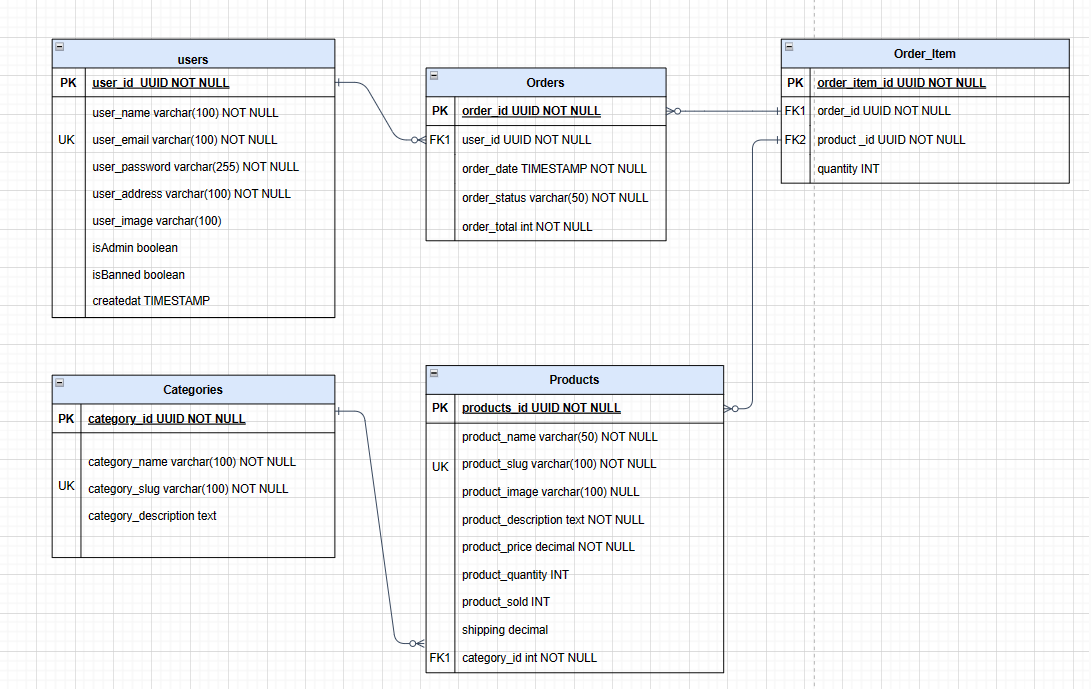
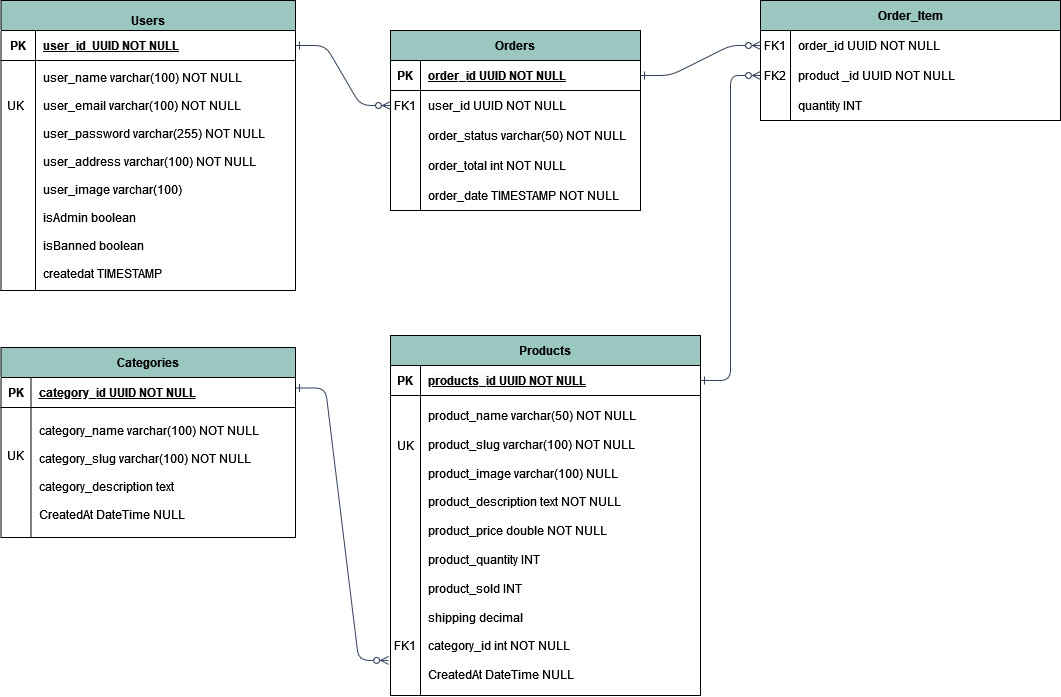
finalizing the Database

diff --git a/src/Services/CategoryService.cs b/src/Services/CategoryService.cs
@@ -11,33 +11,33 @@ namespace api.Services
         {
             _appDbContext = appDbContext;
         }
-    public async Task<IEnumerable<Category>> GetAllCategoryService()
-    {
-        return await _appDbContext.Categories.ToListAsync();
-    }
-    public async Task<Category?> GetCategoryById(Guid categoryId)
-    {
-        return await _appDbContext.Categories.Include(c => c.Products).FirstOrDefaultAsync(category => category.CategoryId == categoryId);
-    }
-    public async Task<Category> CreateCategoryService(Category newCategory)
-    {
-        
-        newCategory.CategoryId = Guid.NewGuid();
-        newCategory.Slug = Slug.GenerateSlug(newCategory.Name);
-        newCategory.CreatedAt = DateTime.UtcNow;
-        _appDbContext.Categories.Add(newCategory); 
-        await _appDbContext.SaveChangesAsync();
-        return newCategory;
-    }
-    public async Task<Category?> UpdateCategoryService(Guid categoryId, Category updateCategory)
-    {
-        var existingCategory = _appDbContext.Categories.FirstOrDefault(c => c.CategoryId == categoryId);
-        if (existingCategory != null)
+        public async Task<IEnumerable<Category>> GetAllCategoryService()
+        {
+            return await _appDbContext.Categories.ToListAsync();
+        }
+        public async Task<Category?> GetCategoryById(Guid categoryId)
+        {
+            return await _appDbContext.Categories.FirstOrDefaultAsync(category => category.CategoryId == categoryId);
+        }
+        public async Task<Category> CreateCategoryService(Category newCategory)
+        {
+
+            newCategory.CategoryId = Guid.NewGuid();
+            newCategory.Slug = Slug.GenerateSlug(newCategory.Name);
+            newCategory.CreatedAt = DateTime.UtcNow;
+            _appDbContext.Categories.Add(newCategory);
+            await _appDbContext.SaveChangesAsync();
+            return newCategory;
+        }
+        public async Task<Category?> UpdateCategoryService(Guid categoryId, Category updateCategory)
+        {
+            var existingCategory = _appDbContext.Categories.FirstOrDefault(c => c.CategoryId == categoryId);
+            if (existingCategory != null)
             {
                 existingCategory.Name = updateCategory.Name;
                 existingCategory.Slug = Slug.GenerateSlug(existingCategory.Name);
                 existingCategory.Description = updateCategory.Description;
-                
+
             }
             await _appDbContext.SaveChangesAsync();
             return existingCategory;

diff --git a/src/Services/ProductService.cs b/src/Services/ProductService.cs
@@ -39,36 +39,6 @@ namespace api.Services
             };
         }
 
-        // public async Task <PaginationDto<ProductModel>> GetProducts(int pageNumber, int pageSize)
-
-        // {
-        //     var totalProductCount = await _appDbContext.Products.CountAsync();
-
-
-        //     var products = await _appDbContext.Products.Select(p => new ProductModel
-        //     {
-        //         ProductId = p.ProductId,
-        //         Name = p.Name,
-        //         Slug = p.Slug,
-        //         ImageUrl = p.ImageUrl,
-        //         Description = p.Description,
-        //         Sold = p.Sold,
-        //         Price = p.Price,
-        //         Quantity = p.Quantity,
-        //         Shipping = p.Shipping,
-        //     })
-        //     .Skip((pageNumber - 1) * pageSize)
-        //     .Take(pageSize)
-        //     .ToListAsync();
-        //     return new PaginationDto<ProductModel>
-        //     {
-        //         Items = products,
-        //         TotalCount = totalProductCount,
-        //         PageNumber = pageNumber,
-        //         PageSize = pageSize
-        //     };
-        // }
-
         public async Task<Product?> GetProductById(Guid productId)
         {
             return await _appDbContext.Products.FirstOrDefaultAsync(p => p.ProductId == productId);
@@ -83,20 +53,8 @@ namespace api.Services
             await _appDbContext.SaveChangesAsync();
             return newProduct;
         }
-        // public async Task AddProductOrder(Guid ProductId, Guid OrderId)
-        // {
-        //     var orderItem = new OrderItem
-        //     {
-        //         OrderId = OrderId,
-        //         ProductId = ProductId
-        //     };
-
-        //     await _appDbContext.OrderItems.AddAsync(orderItem);
-        //     await _appDbContext.SaveChangesAsync();
-        // }
         public async Task<Product?> UpdateProductService(Guid productId, Product updateProduct)
         {
-            //     //create record 
             var productUpdated = await _appDbContext.Products.FirstOrDefaultAsync(p =>
             p.ProductId == productId);
             {

diff --git a/src/EntityFramework/Product.cs b/src/EntityFramework/Product.cs
@@ -4,22 +4,23 @@ using System.ComponentModel.DataAnnotations.Schema;
 namespace api.EntityFramework
 {
      [Table("Products")]
-     public class Product{
+     public class Product
+     {
 
-    public Guid ProductId { get; set;}
-    public  string Name { get; set;}
-    public string Slug { get; set;} = string.Empty;
-    public string ImageUrl { get; set;}=string.Empty;
-    public string Description { get; set;}=string.Empty;
-    public required double Price { get; set;}
-    public  int Quantity { get; set;}
-    public  int Sold{ get; set;}
-    public double Shipping { get; set;}
-    public Guid CategoryId{ get; set;}//forin  key
+          public Guid ProductId { get; set; }
+          public string Name { get; set; }
+          public string Slug { get; set; } = string.Empty;
+          public string ImageUrl { get; set; } = string.Empty;
+          public string Description { get; set; } = string.Empty;
+          public required double Price { get; set; }
+          public int Quantity { get; set; }
+          public int Sold { get; set; }
+          public double Shipping { get; set; }
+          public Guid CategoryId { get; set; }//forin  key
+          public DateTime CreatedAt { get; set; } = DateTime.UtcNow;
 
-    public DateTime CreatedAt {get; set;}
-
-    //Relationships
-    public Category? Category { get; set;}
-    public List<OrderItem>? OrderItems { get; set; } // for M-M with order
-    }}
+          //Relationships
+          public Category? Category { get; set; }
+          public List<OrderItem>? OrderItems { get; set; } // for M-M with order
+     }
+}

diff --git a/src/Controllers/UserController.cs b/src/Controllers/UserController.cs
@@ -98,16 +98,16 @@ namespace api.Controllers
         [HttpPost("login")]
         public async Task<IActionResult> Login([FromBody] LoginDto loginDto)
         {
-                if (!ModelState.IsValid)
-                {
-                    return ApiResponse.BadRequest("Invalid User Data");
-                }
-                var loggedInUser = await _userService.LoginUserAsync(loginDto);
+            if (!ModelState.IsValid)
+            {
+                return ApiResponse.BadRequest("Invalid User Data");
+            }
+            var loggedInUser = await _userService.LoginUserAsync(loginDto);
 
-                var token = _authService.GenerateJwt(loggedInUser);
+            var token = _authService.GenerateJwt(loggedInUser);
 
 
-                return ApiResponse.Success(new { token, loggedInUser }, "User Logged In successfully");
+            return ApiResponse.Success(new { token, loggedInUser }, "User Logged In successfully");
         }
 
         [HttpPut("{userId}")]

diff --git a/src/Models/UserModel.cs b/src/Models/UserModel.cs
@@ -16,16 +16,14 @@ namespace api.Models
         public required string Name { get; set; }
         [EmailAddress(ErrorMessage = "User email is not valid email")]
         public required string Email { get; set; }
-        
+
         [MinLength(6, ErrorMessage = "User Password must be at least 6 characters.")]
         [Required(ErrorMessage = "User Password is required")]
         [RegularExpression(@"^((?=.*[a-z])(?=.*[A-Z])(?=.*\d)).+$")]
         public required string Password { get; set; }
         public string Address { get; set; } = string.Empty;
         public string Image { get; set; } = string.Empty;
-        // public bool IsAdmin { get; set; } = false;
-        // public bool IsBanned { get; set; } = false;
         public DateTime CreatedAt { get; set; } = DateTime.UtcNow;
-        public List<OrderModel> Orders { get; set; }
+        public List<OrderModel>? Orders { get; set; }
     }
 }

diff --git a/src/Controllers/ProductController.cs b/src/Controllers/ProductController.cs
@@ -52,7 +52,7 @@ namespace api.Controllers
             }
         }
         [HttpPost]
-        // [Authorize(Roles = "Admin")]
+        [Authorize(Roles = "Admin")]
         public async Task<IActionResult> CreateProduct(Product newProduct)
         {
             try
@@ -80,7 +80,7 @@ namespace api.Controllers
         }
 
         [HttpPut("{productId}")]
-        // [Authorize(Roles = "Admin")]
+        [Authorize(Roles = "Admin")]
         public async Task<IActionResult> UpdateProductService(Guid productId, Product updateProduct)
         {
             try
@@ -103,7 +103,7 @@ namespace api.Controllers
             }
         }
         [HttpDelete("{productId}")]
-        // [Authorize(Roles = "Admin")]
+        [Authorize(Roles = "Admin")]
         public async Task<IActionResult> DeleteProduct(Guid productId)
         {
             try

diff --git a/src/Services/UserService.cs b/src/Services/UserService.cs
@@ -35,7 +35,6 @@ namespace api.Services
             var user = await _appDbContext.Users.FindAsync(userId);
             var userDto = _mapper.Map<UserDto>(user);
             return userDto;
-            // return await _appDbContext.Users.FirstOrDefaultAsync(user => user.UserId == userId);
         }
 
         public async Task<User?> CreateUserService(UserModel newUser)
@@ -49,9 +48,6 @@ namespace api.Services
                 Address = newUser.Address,
                 Image = newUser.Image
             };
-            // newUser.UserId = Guid.NewGuid();
-            // newUser.Password = _passwordHasher.HashPassword(null, newUser.Password);
-            // newUser.CreatedAt = DateTime.UtcNow;
             _appDbContext.Users.Add(createUser);
             await _appDbContext.SaveChangesAsync();
             return createUser;

diff --git a/src/Controllers/CategoryController.cs b/src/Controllers/CategoryController.cs
@@ -76,7 +76,7 @@ namespace api.Controllers
         }
 
         [HttpPost]
-        // [Authorize(Roles = "Admin")]
+        [Authorize(Roles = "Admin")]
         public async Task<IActionResult> CreateCategory(Category newCategory)
         {
             try
@@ -104,7 +104,7 @@ namespace api.Controllers
 
 
         [HttpPut("{categoryId}")]
-        // [Authorize(Roles = "Admin")]
+        [Authorize(Roles = "Admin")]
         public async Task<IActionResult> UpdateCategory(Guid categoryId, Category updateCategory)
         {
             try
@@ -133,7 +133,7 @@ namespace api.Controllers
 
 
         [HttpDelete("{categoryId}")]
-        // [Authorize(Roles = "Admin")]
+        [Authorize(Roles = "Admin")]
         public async Task<IActionResult> DeleteCategory(Guid categoryId)
         {
             try

diff --git a/src/Services/AuthService.cs b/src/Services/AuthService.cs
@@ -10,16 +10,16 @@ using Microsoft.IdentityModel.Tokens;
 namespace api.Services
 {
 
-public class AuthService
-{
-    private readonly IConfiguration _configuration;
-
-    public AuthService(IConfiguration configuration)
+    public class AuthService
     {
-        _configuration = configuration;
-        Console.WriteLine($"{_configuration["Jwt:Issuer"]}");
-    }
-    public string GenerateJwt(UserDto user)
+        private readonly IConfiguration _configuration;
+
+        public AuthService(IConfiguration configuration)
+        {
+            _configuration = configuration;
+            Console.WriteLine($"{_configuration["Jwt:Issuer"]}");
+        }
+        public string GenerateJwt(UserDto user)
         {
 
             var key = Encoding.ASCII.GetBytes(_configuration["Jwt:Key"]);

diff --git a/src/Models/OrderModel.cs b/src/Models/OrderModel.cs
@@ -13,14 +13,11 @@ namespace api.Models
         public Guid OrderId { get; set; }
         [Required]
         public Guid UserId { get; set; } // foreign key to users table
-    
-        // [Required]
-        // public Guid ProductId { get; set; } // foreign key to products table
         [Required]
         public string OrderStatus { get; set; }
         [Required]
         public int OrderTotal { get; set; }
-        public DateTime OrderDate { get; set; }
+        public DateTime OrderDate { get; set; } = DateTime.UtcNow;
 
         public UserModel? User { get; set; } // 1-1 relation
 

diff --git a/src/Models/ProductModel.cs b/src/Models/ProductModel.cs
@@ -25,12 +25,10 @@ namespace api.Models
 
         //Relation 1-M between category and Products
         public Guid CategoryId { get; set; }//Foreign Key
-        // public CategoryModel? Category { get; set; }
-        //public Category Category { get; set; }
-        public DateTime CreatedAt { get; set; }
-
+        public DateTime CreatedAt { get; set; } = DateTime.UtcNow;
 
         //Relation M-M between Orders and Products
+        public CategoryModel? Category { get; set; }
         List<OrderItemModel> OrderItems { get; set; }
     }
 }

diff --git a/src/Services/OrderService.cs b/src/Services/OrderService.cs
@@ -32,7 +32,7 @@ namespace api.Services
         public async Task<Order> PostOrder(Order newOrder)
         {
             newOrder.OrderId = Guid.NewGuid();
-            newOrder.OrderDate = DateTime.UtcNow; 
+            newOrder.OrderDate = DateTime.UtcNow;
             _appDbContext.Orders.Add(newOrder); // add record to context
             await _appDbContext.SaveChangesAsync(); // save to DB
             return newOrder;
